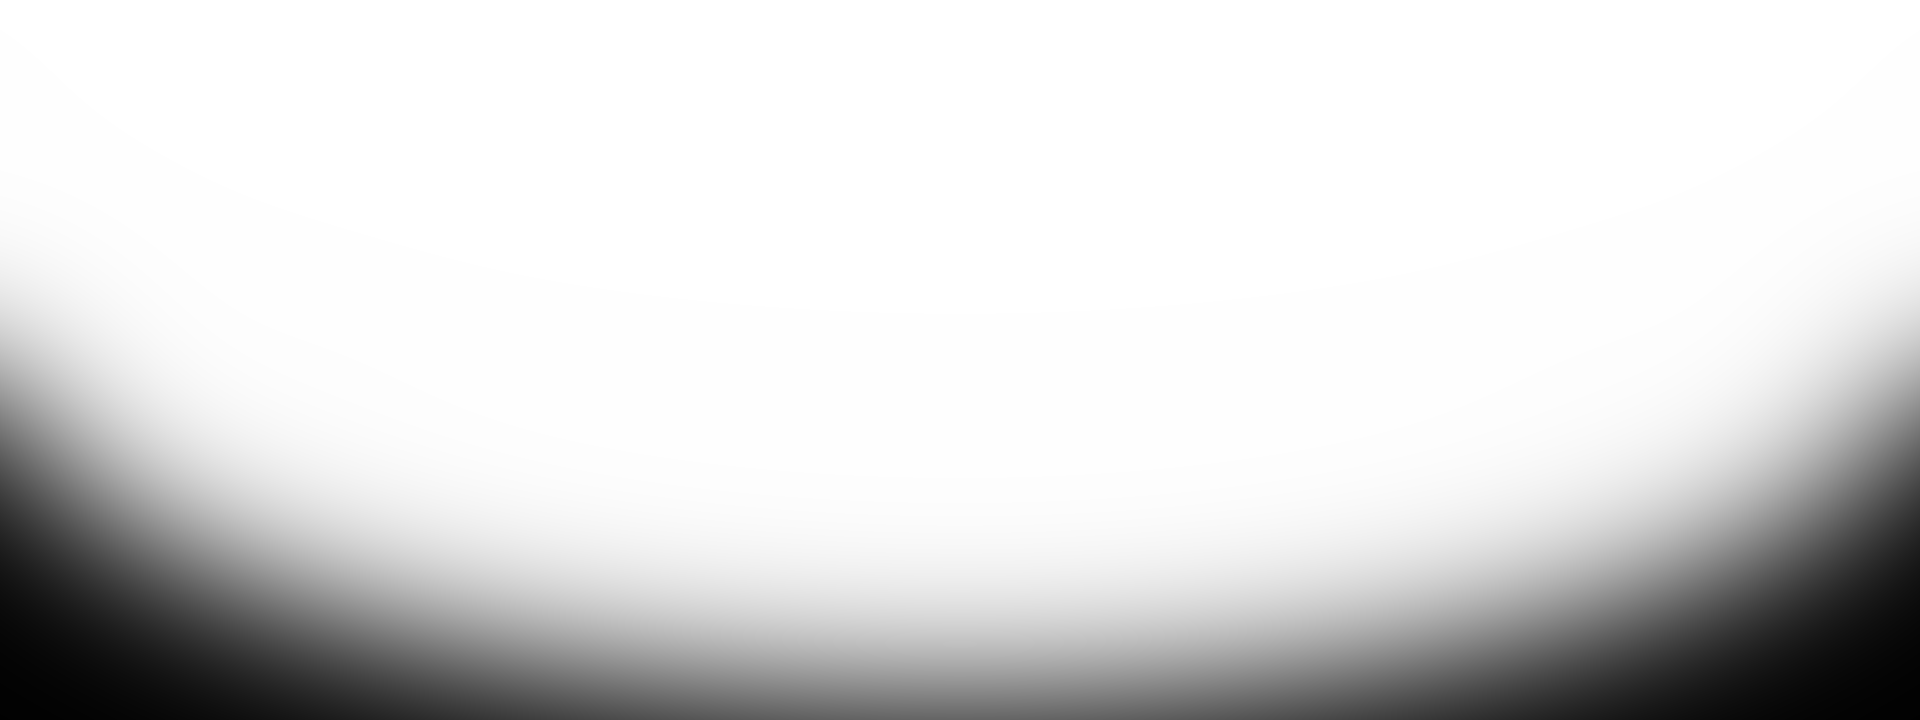
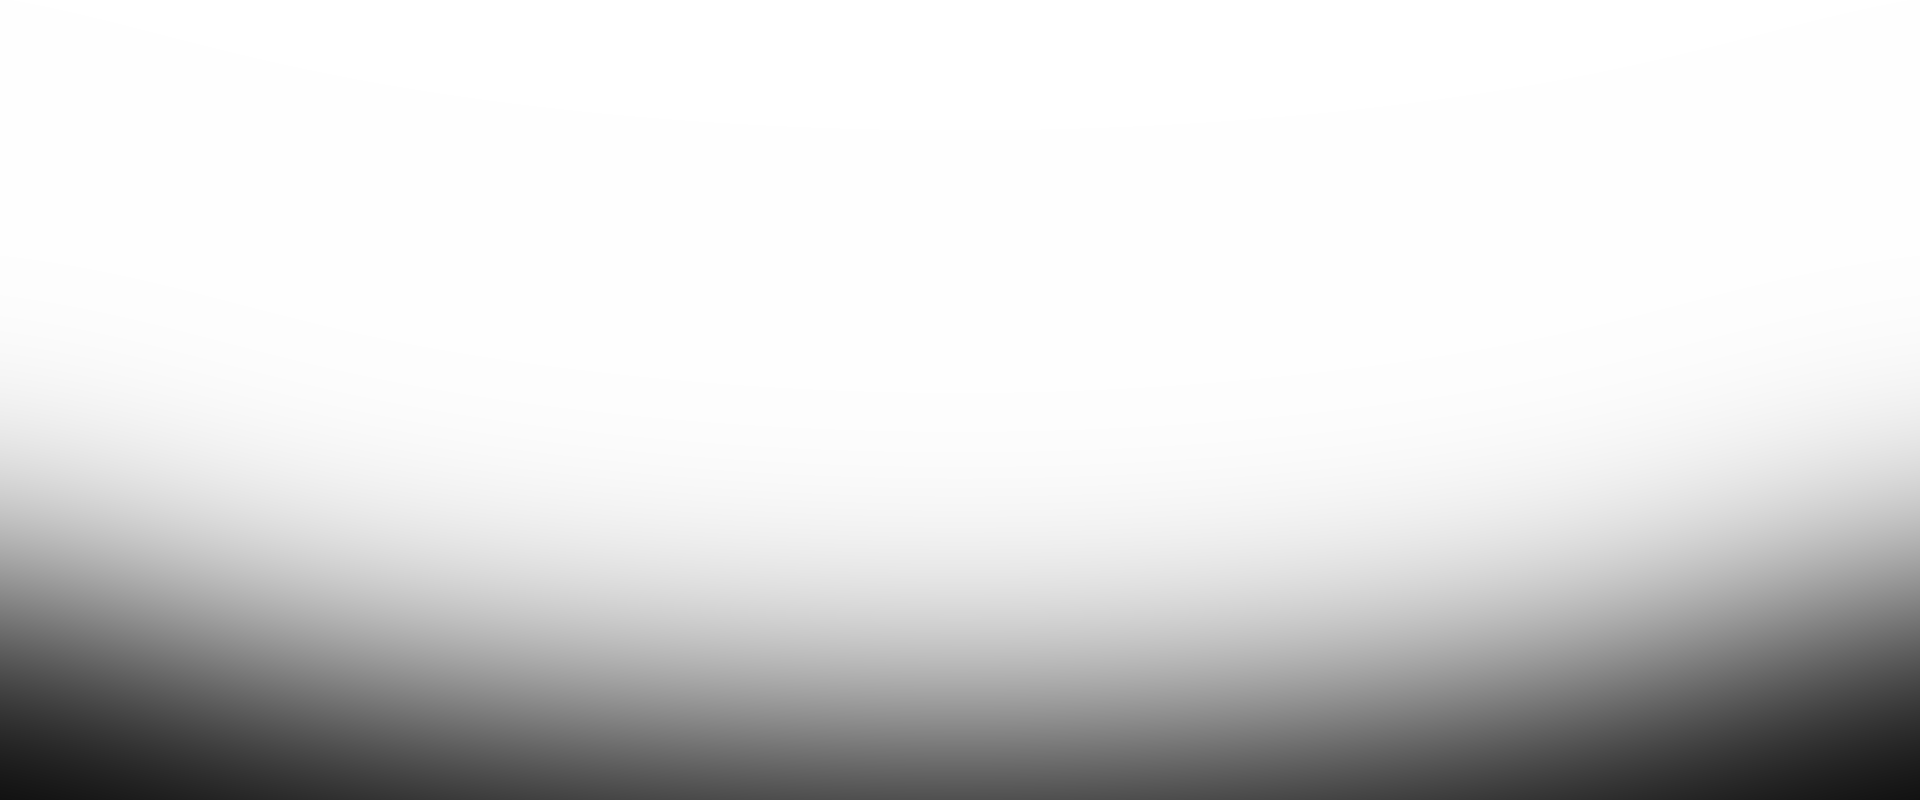
new sshaddow mask

Changed region(s): [[0.1875, 0.7028, 0.8125, 1.0], [0.8438, 0.4278, 1.0, 1.0], [0.0, 0.4278, 0.1562, 1.0]]

diff --git a/js/main.js b/js/main.js
@@ -14,7 +14,7 @@ function setupScene() {
   camera.position.set(0, 0, camZ);
   camera.updateProjectionMatrix();
 
-  scene.background = new THREE.Color(0xffffff);
+  scene.background = new THREE.Color(0x666666);
   scene.position.setX(-window.innerWidth / 2);
   if (window.mScroll === undefined) {
     scene.position.setY(LAYERS_Y_OFFSET);
@@ -77,7 +77,7 @@ const onScroll = (event) => {
 
   scene.position.setY(Math.max(LAYERS_Y_OFFSET, scene.position.y + deltaY));
   window.mScroll.update(scene.position.y);
-  mShadowDiv.style.opacity = Math.max(0, Math.min(1, 0.2 * scene.position.y / window.innerHeight));
+  mShadowDiv.style.opacity = Math.max(0, Math.min(1, 0.33 * scene.position.y / window.innerHeight));
 
   renderer.render(scene, camera);
 };
